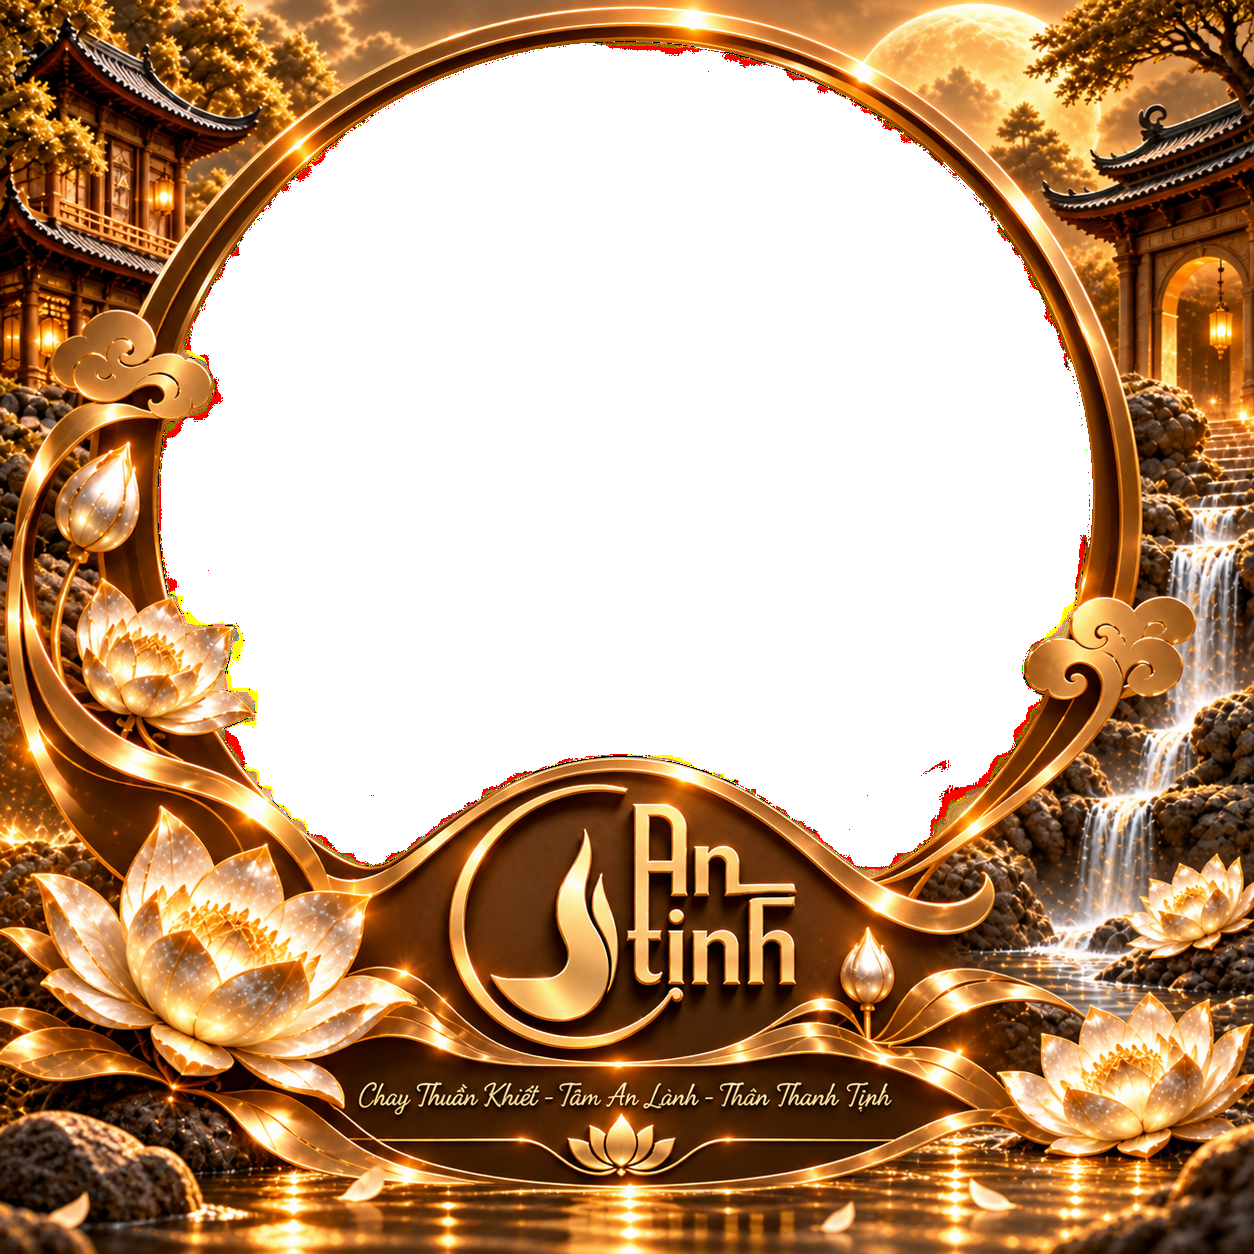
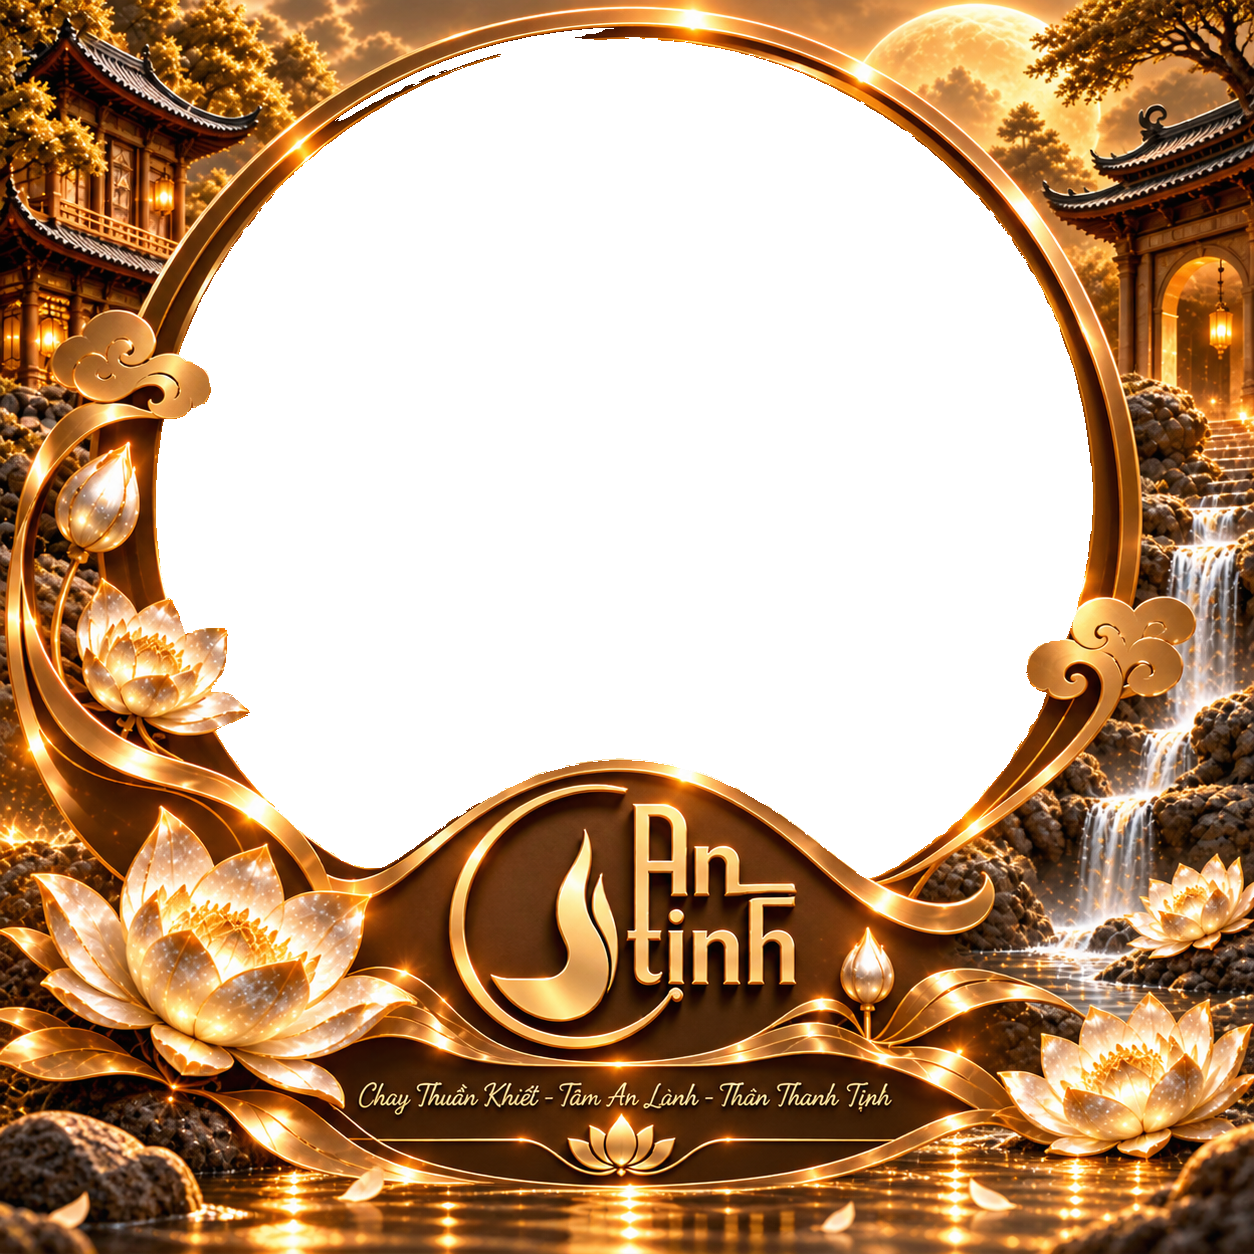
Add files via upload

diff --git a/index.html b/index.html
@@ -2,234 +2,70 @@
 <html lang="vi">
 <head>
 <meta charset="utf-8">
-<meta name="viewport" content="width=device-width, initial-scale=1">
-<title>An Tịnh — Khung ảnh</title>
+<meta name="viewport" content="width=device-width,initial-scale=1">
+<title>Khung ảnh An Tịnh</title>
 <style>
-:root {
-  --gold:#d6a84a;
-  --gold2:#f3d27a;
-  --brown:#3b2415;
-  --panel:#fffaf0;
-}
-*{box-sizing:border-box}
-body{margin:0;font-family:system-ui,-apple-system,"Segoe UI",Arial,sans-serif;background:linear-gradient(135deg,#f5ead7,#fffaf0);color:#2b2119}
-.app{max-width:1250px;margin:0 auto;padding:22px}
-header{display:flex;justify-content:space-between;gap:18px;align-items:center;margin-bottom:18px}
-h1{margin:0;font-size:25px;color:#5a361d}
-.sub{margin:4px 0 0;color:#705b48;font-size:14px}
-.grid{display:grid;grid-template-columns:minmax(360px,1fr) 340px;gap:20px;align-items:start}
-.card{background:rgba(255,255,255,.88);border:1px solid #ead9b9;border-radius:18px;box-shadow:0 10px 35px rgba(83,51,20,.12)}
-.preview{padding:16px}
-.canvas-wrap{position:relative;width:100%;aspect-ratio:1/1;background:repeating-conic-gradient(#eee 0 25%,#fff 0 50%) 50%/24px 24px;border-radius:12px;overflow:hidden;display:grid;place-items:center}
-canvas{width:100%;height:100%;display:block}
-.controls{padding:18px}
-.group{border-bottom:1px solid #eadfcd;padding:0 0 15px;margin:0 0 15px}
-.group:last-child{border-bottom:0;margin-bottom:0}
-label{display:flex;justify-content:space-between;gap:12px;font-size:13px;font-weight:650;margin:10px 0 6px}
-input[type=file]{width:100%;font-size:13px}
-input[type=range]{width:100%;accent-color:#a97722}
-input[type=number]{width:92px;padding:7px 8px;border:1px solid #d9c8ab;border-radius:8px}
-.row{display:flex;gap:8px;align-items:center;flex-wrap:wrap}
-button{border:1px solid #cda85e;background:#fff8e9;color:#5b391b;border-radius:9px;padding:9px 11px;font-weight:700;cursor:pointer}
-button:hover{background:#fff0ca}
-.primary{width:100%;padding:12px;background:linear-gradient(135deg,#a96f1c,#e3b65a);color:white;border:0;font-size:15px}
-.danger{background:#fff1ee;border-color:#e7b4aa;color:#8b382a}
-.small{font-size:12px;color:#776654;line-height:1.45}
-.badge{display:inline-block;background:#f7e7bf;color:#6b481d;border-radius:999px;padding:4px 8px;font-size:11px;font-weight:800}
-.switch{display:flex;align-items:center;gap:8px;font-size:13px}
-.status{margin-top:10px;padding:9px 10px;background:#faf3e6;border-radius:9px;font-size:12px;color:#6d5944}
+*{box-sizing:border-box} body{margin:0;background:#f7efe2;color:#342719;font-family:Arial,system-ui,sans-serif}
+.app{max-width:1280px;margin:auto;padding:20px} h1{margin:0;color:#5b3718;font-size:25px}
+.sub{margin:6px 0 18px;color:#765f48;font-size:14px} .grid{display:grid;grid-template-columns:minmax(400px,1fr) 350px;gap:20px}
+.card{background:#fff;border:1px solid #e6d4b5;border-radius:16px;box-shadow:0 8px 28px #6b421b22}
+.preview{padding:15px} .wrap{aspect-ratio:1;background:#eee;overflow:hidden;border-radius:11px}
+canvas{display:block;width:100%;height:100%} .controls{padding:18px}
+section{padding-bottom:15px;margin-bottom:15px;border-bottom:1px solid #eadfce}
+label{display:flex;justify-content:space-between;margin:9px 0 5px;font-size:13px;font-weight:700}
+input[type=range]{width:100%} input[type=file]{width:100%} button{padding:9px 11px;border-radius:8px;border:1px solid #cba35d;background:#fff7e7;font-weight:700;cursor:pointer}
+.row{display:flex;gap:7px;flex-wrap:wrap} .primary{width:100%;background:#a87522;color:white;border:0;padding:12px;font-size:15px}
+.small{font-size:12px;color:#75624e;line-height:1.45} .status{padding:9px;background:#faf3e7;border-radius:8px;font-size:12px;margin-top:10px}
 @media(max-width:900px){.grid{grid-template-columns:1fr}}
 </style>
 </head>
 <body>
 <div class="app">
-<header>
-  <div>
-    <h1>Khung ảnh An Tịnh</h1>
-    <div class="sub">Mask đã được tách trực tiếp từ vùng trong suốt trung tâm của mẫu gốc.</div>
-  </div>
-  <span class="badge">1254 × 1254 px</span>
-</header>
-
+<h1>Khung ảnh An Tịnh</h1>
+<div class="sub">Vùng mask được flood-fill từ chính giữa, bao phủ toàn bộ phần trong suốt và phần màu đen liên thông bên trong khung.</div>
 <div class="grid">
-  <section class="card preview">
-    <div class="canvas-wrap"><canvas id="canvas" width="1254" height="1254"></canvas></div>
-    <div class="status" id="status">Chưa tải ảnh. Hãy chọn ảnh để bắt đầu.</div>
-  </section>
-
-  <aside class="card controls">
-    <div class="group">
-      <label>1. Tải ảnh lên</label>
-      <input id="file" type="file" accept="image/*">
-      <p class="small">Ảnh chỉ được xử lý trên trình duyệt của bạn; không cần máy chủ.</p>
-    </div>
-
-    <div class="group">
-      <label>Phóng to / thu nhỏ <output id="scaleOut">100%</output></label>
-      <input id="scale" type="range" min="10" max="250" value="100">
-      <div class="row">
-        <button id="fit">Vừa khung</button>
-        <button id="contain">Vừa đủ ảnh</button>
-        <button id="reset">Đặt lại</button>
-      </div>
-    </div>
-
-    <div class="group">
-      <label>Chiều rộng <output id="widthOut">100%</output></label>
-      <input id="width" type="range" min="10" max="250" value="100">
-      <label>Chiều cao <output id="heightOut">100%</output></label>
-      <input id="height" type="range" min="10" max="250" value="100">
-      <label class="switch"><input id="lock" type="checkbox" checked> Khóa tỷ lệ chiều rộng / chiều cao</label>
-    </div>
-
-    <div class="group">
-      <label>Vị trí ngang <output id="xOut">0</output></label>
-      <input id="x" type="range" min="-600" max="600" value="0">
-      <label>Vị trí dọc <output id="yOut">0</output></label>
-      <input id="y" type="range" min="-600" max="600" value="0">
-    </div>
-
-    <div class="group">
-      <label>Xoay <output id="rotateOut">0°</output></label>
-      <input id="rotate" type="range" min="-180" max="180" value="0">
-      <div class="row">
-        <button id="flipH">Lật ngang</button>
-        <button id="flipV">Lật dọc</button>
-      </div>
-    </div>
-
-    <div class="group">
-      <label>Chất lượng tải xuống</label>
-      <div class="row">
-        <button id="download" class="primary">⬇ TẢI KHUNG ẢNH PNG</button>
-      </div>
-      <p class="small">PNG giữ nguyên nền trong suốt bên ngoài khung.</p>
-      <p class="small"><b>Vị trí tải về:</b> trình duyệt sẽ lưu file vào thư mục <b>Downloads / Tải xuống</b> theo cài đặt của máy. Nếu Chrome hỏi nơi lưu, bạn có thể chọn thư mục bất kỳ.</p>
-    </div>
-
-    <div class="group">
-      <button id="clear" class="danger">Xóa ảnh đã tải</button>
-    </div>
-  </aside>
-</div>
-</div>
-
+<div class="card preview"><div class="wrap"><canvas id="c" width="1254" height="1254"></canvas></div><div class="status" id="status">Chưa tải ảnh.</div></div>
+<div class="card controls">
+<section>
+<label>Ảnh tải lên</label><input id="file" type="file" accept="image/*">
+<p class="small">Ảnh không bị gửi lên máy chủ. Có thể chỉnh trực tiếp trên trình duyệt.</p>
+</section>
+<section>
+<label>Phóng to / thu nhỏ <span id="scaleO">100%</span></label><input id="scale" type="range" min="10" max="300" value="100">
+<div class="row"><button onclick="fit('cover')">Vừa khung</button><button onclick="fit('contain')">Vừa đủ ảnh</button><button onclick="resetAll()">Đặt lại</button></div>
+</section>
+<section>
+<label>Chiều rộng <span id="widthO">100%</span></label><input id="width" type="range" min="10" max="300" value="100">
+<label>Chiều cao <span id="heightO">100%</span></label><input id="height" type="range" min="10" max="300" value="100">
+<label><span><input id="lock" type="checkbox" checked> Khóa tỷ lệ</span></label>
+</section>
+<section>
+<label>Vị trí ngang <span id="xO">0</span></label><input id="x" type="range" min="-800" max="800" value="0">
+<label>Vị trí dọc <span id="yO">0</span></label><input id="y" type="range" min="-800" max="800" value="0">
+</section>
+<section>
+<label>Xoay <span id="rotO">0°</span></label><input id="rot" type="range" min="-180" max="180" value="0">
+<div class="row"><button onclick="flipH()">Lật ngang</button><button onclick="flipV()">Lật dọc</button></div>
+</section>
+<section>
+<button class="primary" onclick="downloadPNG()">⬇ TẢI KHUNG ẢNH PNG</button>
+<p class="small"><b>Nơi tải:</b> file sẽ được trình duyệt lưu vào thư mục <b>Downloads / Tải xuống</b> theo cài đặt của máy, hoặc Chrome sẽ hỏi vị trí nếu bạn bật tùy chọn hỏi nơi lưu.</p>
+</section>
+</div></div></div>
 <script>
-const W=1254, H=1254;
-const OPEN={x:160, y:43, w:933, h:824};
-
-const canvas=document.getElementById('canvas');
-const ctx=canvas.getContext('2d');
-const maskImg=new Image();
-const frameImg=new Image();
-maskImg.src='assets/mask.png';
-frameImg.src='assets/frame.png';
-
-let photo=null;
-let state={scale:100,width:100,height:100,x:0,y:0,rotate:0,flipH:1,flipV:1};
-let baseScale=1;
-
+const W=1254,H=1254,OPEN={x:156,y:28,w:937,h:850};
+const c=document.getElementById('c'),ctx=c.getContext('2d');
+const mask=new Image(),frame=new Image(); mask.src='assets/mask.png';frame.src='assets/frame.png';
+let photo=null,base=1,s={scale:100,width:100,height:100,x:0,y:0,rot:0,fh:1,fv:1};
 const $=id=>document.getElementById(id);
-function out(id,val){ $(id).textContent=val; }
-
-function updateLabels(){
-  out('scaleOut',state.scale+'%');
-  out('widthOut',state.width+'%');
-  out('heightOut',state.height+'%');
-  out('xOut',state.x);
-  out('yOut',state.y);
-  out('rotateOut',state.rotate+'°');
-}
-
-function fitMode(mode='cover'){
-  if(!photo) return;
-  const sx=OPEN.w/photo.naturalWidth;
-  const sy=OPEN.h/photo.naturalHeight;
-  baseScale = mode==='contain' ? Math.min(sx,sy) : Math.max(sx,sy);
-  state.scale=100; state.width=100; state.height=100; state.x=0; state.y=0; state.rotate=0;
-  $('scale').value=100; $('width').value=100; $('height').value=100;
-  $('x').value=0; $('y').value=0; $('rotate').value=0;
-  updateLabels(); draw();
-}
-
-function draw(){
-  ctx.clearRect(0,0,W,H);
-  if(photo){
-    const scale=baseScale*(state.scale/100);
-    const sx=scale*(state.width/100)*state.flipH;
-    const sy=scale*(state.height/100)*state.flipV;
-    const iw=photo.naturalWidth, ih=photo.naturalHeight;
-    const cx=OPEN.x+OPEN.w/2+Number(state.x);
-    const cy=OPEN.y+OPEN.h/2+Number(state.y);
-
-    // Vẽ ảnh vào lớp tạm, sau đó dùng đúng mask pixel-for-pixel.
-    const temp=document.createElement('canvas');
-    temp.width=W; temp.height=H;
-    const t=temp.getContext('2d');
-    t.save();
-    t.translate(cx,cy);
-    t.rotate(state.rotate*Math.PI/180);
-    t.scale(sx,sy);
-    t.drawImage(photo,-iw/2,-ih/2);
-    t.restore();
-
-    // destination-in: chỉ giữ lại phần trùng với mask.
-    t.globalCompositeOperation='destination-in';
-    t.drawImage(maskImg,0,0,W,H);
-    ctx.drawImage(temp,0,0);
-  }
-  // Frame luôn nằm trên cùng.
-  ctx.drawImage(frameImg,0,0,W,H);
-}
-function reset(){
-  state={scale:100,width:100,height:100,x:0,y:0,rotate:0,flipH:1,flipV:1};
-  ['scale','width','height','x','y','rotate'].forEach(id=>$(id).value=id==='scale'||id==='width'||id==='height'?100:0);
-  updateLabels(); draw();
-}
-
-$('file').addEventListener('change',e=>{
-  const f=e.target.files[0];
-  if(!f) return;
-  const url=URL.createObjectURL(f);
-  photo=new Image();
-  photo.onload=()=>{
-    fitMode('cover');
-    $('status').textContent='Đã tải ảnh: '+f.name+' — có thể kéo thanh để chỉnh kích thước, tỷ lệ và vị trí.';
-    URL.revokeObjectURL(url);
-  };
-  photo.src=url;
-});
-$('scale').oninput=e=>{state.scale=+e.target.value;updateLabels();draw();};
-$('width').oninput=e=>{
-  const v=+e.target.value, old=state.width;
-  state.width=v;
-  if($('lock').checked){state.height=v;$('height').value=v;}
-  updateLabels();draw();
-};
-$('height').oninput=e=>{
-  const v=+e.target.value;
-  state.height=v;
-  if($('lock').checked){state.width=v;$('width').value=v;}
-  updateLabels();draw();
-};
-$('x').oninput=e=>{state.x=+e.target.value;updateLabels();draw();};
-$('y').oninput=e=>{state.y=+e.target.value;updateLabels();draw();};
-$('rotate').oninput=e=>{state.rotate=+e.target.value;updateLabels();draw();};
-$('fit').onclick=()=>fitMode('cover');
-$('contain').onclick=()=>fitMode('contain');
-$('reset').onclick=reset;
-$('flipH').onclick=()=>{state.flipH*=-1;draw();};
-$('flipV').onclick=()=>{state.flipV*=-1;draw();};
-$('clear').onclick=()=>{photo=null;$('file').value='';$('status').textContent='Đã xóa ảnh. Hãy chọn ảnh mới.';draw();};
-$('download').onclick=()=>{
-  if(!photo){alert('Bạn chưa tải ảnh lên.');return;}
-  const a=document.createElement('a');
-  a.download='an-tinh-khung-anh.png';
-  a.href=canvas.toDataURL('image/png');
-  a.click();
-};
-Promise.all([new Promise(r=>maskImg.onload=r),new Promise(r=>frameImg.onload=r)]).then(draw);
-updateLabels();
+function labels(){['scale','width','height'].forEach(k=>$(k+'O').textContent=s[k]+'%');$('xO').textContent=s.x;$('yO').textContent=s.y;$('rotO').textContent=s.rot+'°';}
+function fit(mode){if(!photo)return;let a=OPEN.w/photo.naturalWidth,b=OPEN.h/photo.naturalHeight;base=mode==='contain'?Math.min(a,b):Math.max(a,b);s.scale=100;s.width=100;s.height=100;s.x=0;s.y=0;s.rot=0;['scale','width','height'].forEach(k=>$(k).value=100);['x','y','rot'].forEach(k=>$(k).value=0);labels();draw();}
+function resetAll(){s={scale:100,width:100,height:100,x:0,y:0,rot:0,fh:1,fv:1};['scale','width','height'].forEach(k=>$(k).value=100);['x','y','rot'].forEach(k=>$(k).value=0);labels();draw();}
+function draw(){ctx.clearRect(0,0,W,H);if(photo){let sc=base*s.scale/100, sx=sc*s.width/100*s.fh, sy=sc*s.height/100*s.fv,cx=OPEN.x+OPEN.w/2+s.x,cy=OPEN.y+OPEN.h/2+s.y;let t=document.createElement('canvas');t.width=W;t.height=H;let q=t.getContext('2d');q.save();q.translate(cx,cy);q.rotate(s.rot*Math.PI/180);q.scale(sx,sy);q.drawImage(photo,-photo.naturalWidth/2,-photo.naturalHeight/2);q.restore();q.globalCompositeOperation='destination-in';q.drawImage(mask,0,0,W,H);ctx.drawImage(t,0,0)}ctx.drawImage(frame,0,0,W,H);}
+$('file').onchange=e=>{let f=e.target.files[0];if(!f)return;let u=URL.createObjectURL(f);photo=new Image();photo.onload=()=>{fit('cover');$('status').textContent='Đã tải: '+f.name+' — vùng ảnh được cắt đúng theo mask trung tâm.';URL.revokeObjectURL(u)};photo.src=u};
+$('scale').oninput=e=>{s.scale=+e.target.value;labels();draw()};$('width').oninput=e=>{s.width=+e.target.value;if($('lock').checked){s.height=s.width;$('height').value=s.height}labels();draw()};$('height').oninput=e=>{s.height=+e.target.value;if($('lock').checked){s.width=s.height;$('width').value=s.width}labels();draw()};$('x').oninput=e=>{s.x=+e.target.value;labels();draw()};$('y').oninput=e=>{s.y=+e.target.value;labels();draw()};$('rot').oninput=e=>{s.rot=+e.target.value;labels();draw()};
+function flipH(){s.fh*=-1;draw()} function flipV(){s.fv*=-1;draw()}
+function downloadPNG(){if(!photo){alert('Bạn chưa tải ảnh lên.');return}let a=document.createElement('a');a.download='an-tinh-khung-anh.png';a.href=c.toDataURL('image/png');a.click()}
+Promise.all([new Promise(r=>mask.onload=r),new Promise(r=>frame.onload=r)]).then(draw);labels();
 </script>
-</body>
-</html>
+</body></html>
